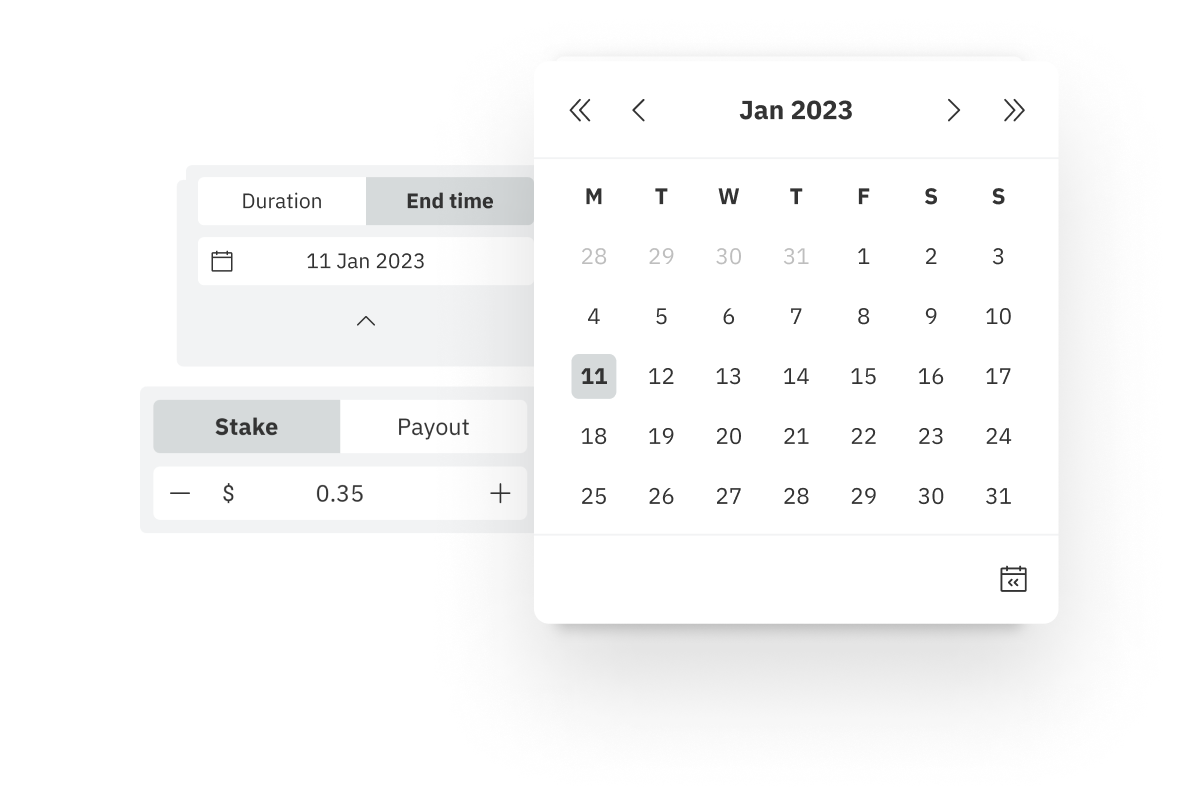
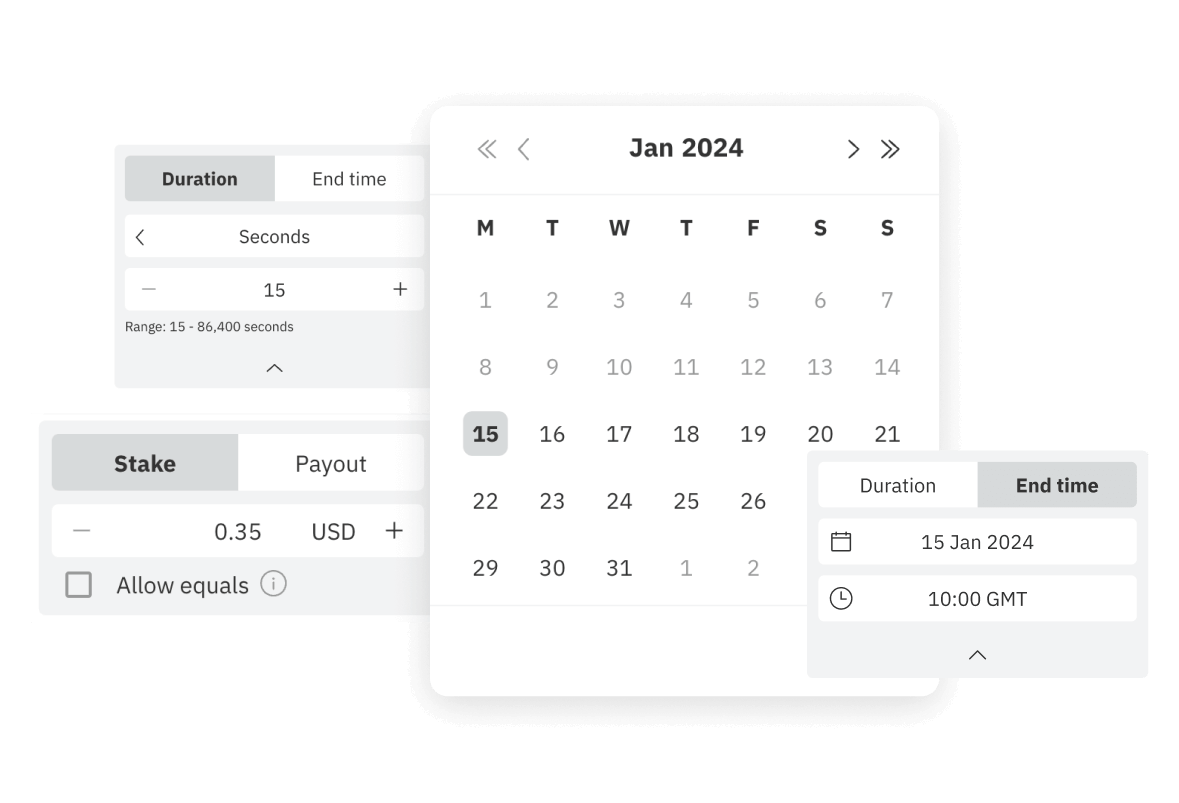
fix: :bug: fix incorrect image and update sentence

diff --git a/src/pages/dtrader/index.tsx b/src/pages/dtrader/index.tsx
@@ -52,7 +52,7 @@ const trading: TradingType[] = [
     {
         title: '_t_... And how you want_t_',
         subtitle:
-            '_t_Choose from a variety of customisable trade types with stakes as low as $0.35 and durations as short as a second._t_',
+            '_t_Choose from a variety of customisable trade types with flexible contract durations and stakes as low as $0.35._t_',
         image_name: 'how_you_want',
         image_alt: '_t_Customise your trade types_t_',
     },
